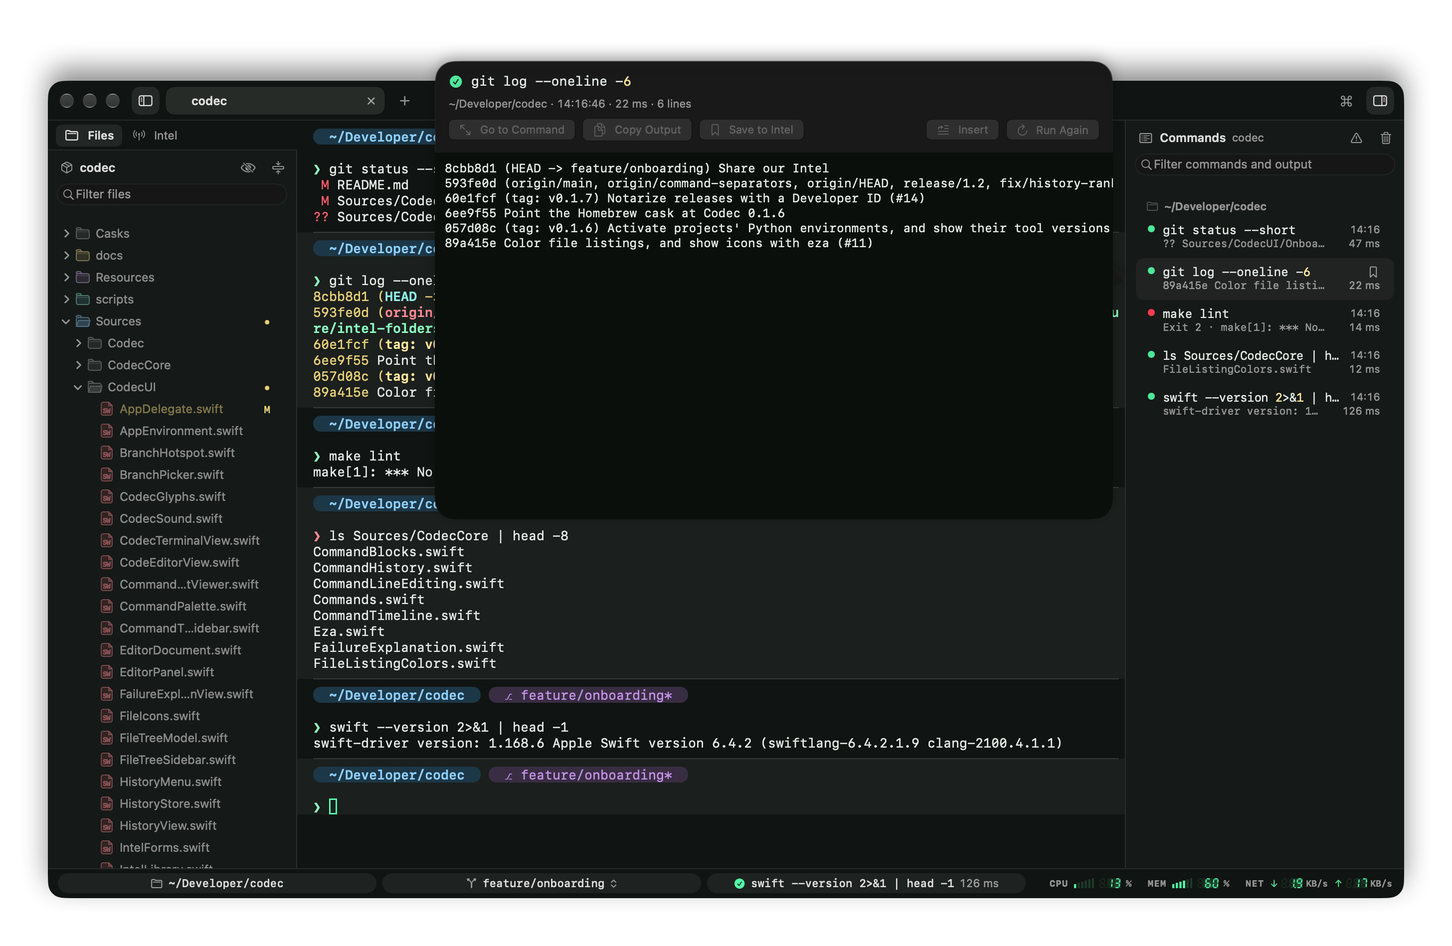
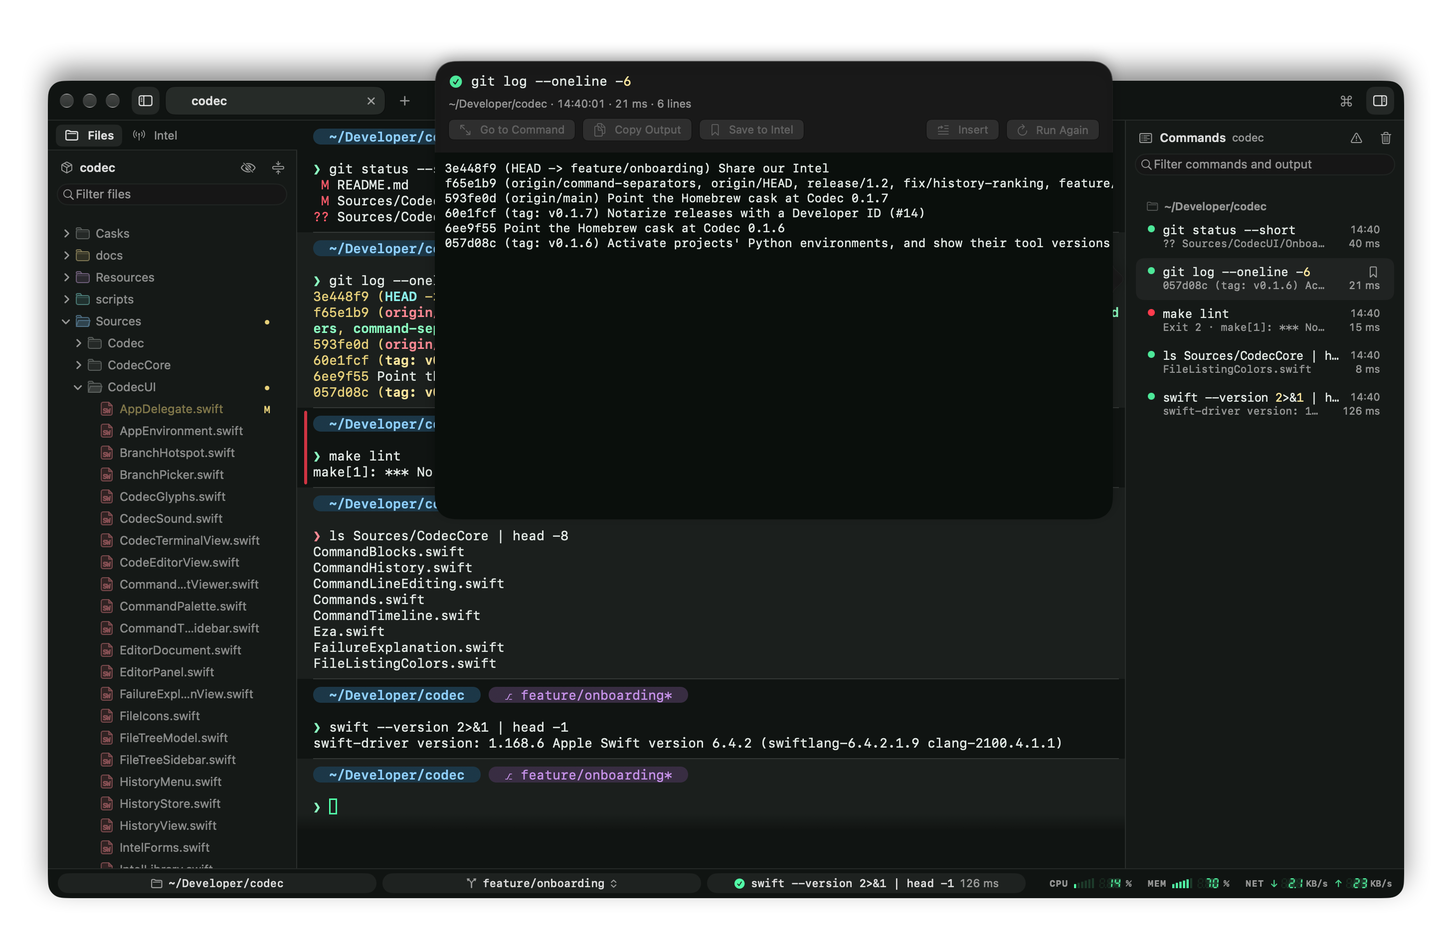
Mark failed commands in the margin, and let the newest one's shade fade out
A command that failed now has a bar beside it in the margin, in the theme's
alert color, from its prompt to the end of its output, so the failures are
what stands out when scrolling back. The command that's running has one in
the accent color, and commands that worked have nothing. The bar is where
the mark over a command gone back to is drawn, a little quieter, and comes
with the line between commands rather than a setting of its own.

The newest command isn't over, so its shade no longer ends in an edge under
the cursor: it fades out over a row below its last. That also hides the
steps the shade grew in while slow output came in.

The line is a little fainter so the bar leads, and after a resize hid them
the separators fade back in rather than pop.

Changed region(s): [[0.3125, 0.1554, 0.75, 0.2798], [0.2188, 0.3109, 0.3125, 0.4352], [0.8125, 0.2798, 0.9062, 0.3109]]

diff --git a/Sources/CodecUI/Pane.swift b/Sources/CodecUI/Pane.swift
@@ -994,25 +994,26 @@ final class Pane: LocalProcessTerminalViewDelegate {
     private var relocationToken = 0
 
     /// Draws what sets the commands on screen apart, as the settings say: a line above each one's
-    /// prompt, and a shade behind every other one, from its line to the next. The prompt waiting for a
-    /// command counts as one. Only with shell integration, which is what tells commands apart.
+    /// prompt, with a bar in the margin beside one that failed or is running, and a shade behind every
+    /// other one, from its line to the next. The prompt waiting for a command counts as one. Only with
+    /// shell integration, which is what tells commands apart.
     func refreshCommandSeparators() {
         let separators = view.commandSeparators
         let lines = preferences.commandSeparators, shading = preferences.shadeAlternateCommands
         guard lines || shading, session.integrated, !isShutDown, promptIsDrawn || !blocks.blocks.isEmpty,
               terminal.terminalInputStateSnapshot()?.isAlternateBuffer == false else {
-            return separators.update(shades: [], rules: [])
+            return separators.update()
         }
         // Finding the commands again takes the whole scrollback: once a resize is over, not at each step of it.
         if rowsMayHaveMoved, !blocks.blocks.isEmpty {
-            separators.update(shades: [], rules: [])
+            separators.update()
             return relocateBlocksSoon()
         }
         // One copy of the screen where `TerminalGrid` takes two: this runs at every frame of a scroll.
         let caret = terminal.firstRect(forCharacterRange: NSRange(location: 0, length: 0), actualRange: nil)
         guard let window = terminal.window, caret.height > 0,
               let snapshot = terminal.terminalContentSnapshot(region: .viewport),
-              let top = snapshot.rows.first?.absoluteRow else { return separators.update(shades: [], rules: []) }
+              let top = snapshot.rows.first?.absoluteRow else { return separators.update() }
         let shown = top..<(top + snapshot.rows.count)
         let cursorRow = snapshot.cursorRow
         func isBlank(_ row: Int) -> Bool { snapshot.rows[row - top].text.allSatisfy(\.isWhitespace) }
@@ -1049,20 +1050,42 @@ final class Pane: LocalProcessTerminalViewDelegate {
             let first = frame(ofRow: span.rows.lowerBound)
             return isBlank(span.rows.lowerBound) && span.rows.count > 1 ? first.midY : first.maxY
         }
-        var shades: [NSRect] = [], rules: [NSRect] = []
+        var shades: [CommandSeparatorView.Shade] = [], rules: [NSRect] = [], marks: [CommandSeparatorView.Mark] = []
         for (index, span) in spans.enumerated() {
             let top = tops[index]
+            // Where it ends: at the next one's line, past the screen's edge (so into the pane's padding),
+            // or, for the newest, under its last row.
+            let endsOnScreen = index + 1 == spans.count && span.rows.upperBound < shown.upperBound
+            let bottom = index + 1 < spans.count ? tops[index + 1]
+                : endsOnScreen ? frame(ofRow: span.rows.upperBound - 1).minY : bounds.minY
+            guard top > bottom else { continue }
             // Nothing is above the very first row to set a command apart from.
             if lines, shown.contains(span.rows.lowerBound), span.rows.lowerBound > 0 {
                 rules.append(NSRect(x: text.minX, y: top - 0.5, width: text.width, height: 1))
             }
+            if lines, let kind = markKind(of: span) {
+                // In the margin, where the mark over a command gone back to is, and short of the lines
+                // at either end unless the command goes on past the screen's edge.
+                let gap: CGFloat = top - bottom > 12 ? 3 : 0
+                let upper = top < bounds.maxY ? top - gap : top, lower = bottom > bounds.minY ? bottom + gap : bottom
+                marks.append(.init(frame: NSRect(x: max(text.minX - 9, 2), y: lower, width: 3, height: upper - lower), kind: kind))
+            }
             guard shading, span.isAlternate else { continue }
-            // Into the pane's padding when the command goes on past the screen's edge.
-            let bottom = index + 1 < spans.count ? tops[index + 1]
-                : span.rows.upperBound >= shown.upperBound ? bounds.minY : frame(ofRow: span.rows.upperBound - 1).minY
-            if top > bottom { shades.append(NSRect(x: bounds.minX, y: bottom, width: bounds.width, height: top - bottom)) }
+            // The newest one isn't over: instead of an edge, its shade fades out over a row below its last.
+            let fade = endsOnScreen && span.isNewest ? rowHeight : 0
+            shades.append(.init(frame: NSRect(x: bounds.minX, y: bottom - fade, width: bounds.width, height: top - bottom + fade),
+                                fade: fade))
         }
-        separators.update(shades: shades, rules: rules)
+        separators.update(shades: shades, rules: rules, marks: marks)
+    }
+
+    /// What the bar beside a command says, when there's something to say: it's running, or it failed.
+    /// Nothing for one that worked, nor for the prompt waiting for one.
+    private func markKind(of span: CommandBlocks.Span) -> CommandSeparatorView.Mark.Kind? {
+        guard let index = span.block, blocks.blocks.indices.contains(index) else { return nil }
+        let block = blocks.blocks[index]
+        guard let entry = timeline.entries.last(where: { $0.block == block }) else { return nil }
+        return entry.isRunning ? .running : entry.failed ? .failed : nil
     }
 
     /// Finds the commands again a moment after the last resize, then draws what sets them apart.

diff --git a/Sources/CodecUI/PaneView.swift b/Sources/CodecUI/PaneView.swift
@@ -113,8 +113,7 @@ final class PaneView: NSView {
     func apply(theme: CodecTheme, scanlines enabled: Bool) {
         finder.apply(theme: theme)
         fileLink.theme = theme
-        commandSeparators.ruleColor = theme.commandRule
-        commandSeparators.shadeColor = theme.commandShade
+        commandSeparators.theme = theme
         scanlines.isHidden = !enabled
         scanlines.lineColor = theme.isDark ? .black : NSColor(white: 0, alpha: 0.5)
         scanlines.needsDisplay = true
@@ -320,35 +319,73 @@ final class FileLinkView: NSView {
     }
 }
 
-/// Sets commands apart: a line above each one's prompt, and a shade behind every other one, prompt and
-/// output. It's under the terminal, whose own background is clear, so text over a shade keeps its
-/// contrast and anything the terminal fills in (a selection, a prompt chip) covers the line.
+/// Sets commands apart: a line above each one's prompt, a shade behind every other one, prompt and
+/// output, and a bar in the margin beside one that failed or is still running. It's under the
+/// terminal, whose own background is clear, so text over a shade keeps its contrast and anything the
+/// terminal fills in (a selection, a prompt chip) covers the line.
 final class CommandSeparatorView: NSView {
-    var ruleColor: NSColor = .separatorColor {
+    /// The bar beside a command there's something to say about. One that worked has none.
+    struct Mark: Equatable {
+        enum Kind: Equatable {
+            case running
+            case failed
+        }
+        var frame: NSRect
+        var kind: Kind
+    }
+
+    /// A shaded command's rows. The newest command isn't over, so its shade has no bottom edge: it
+    /// fades out over its last `fade` points.
+    struct Shade: Equatable {
+        var frame: NSRect
+        var fade: CGFloat = 0
+    }
+
+    var theme: CodecTheme = .codec {
         didSet { needsDisplay = true }
     }
-    var shadeColor: NSColor = .clear {
-        didSet { needsDisplay = true }
-    }
-    /// The shaded commands' rows, in this view's coordinates.
-    private(set) var shades: [NSRect] = []
+    /// All in this view's coordinates.
+    private(set) var shades: [Shade] = []
     /// The lines, a point thick.
     private(set) var rules: [NSRect] = []
+    private(set) var marks: [Mark] = []
 
     override func hitTest(_ point: NSPoint) -> NSView? { nil }
 
-    func update(shades: [NSRect], rules: [NSRect]) {
-        guard shades != self.shades || rules != self.rules else { return }
+    func update(shades: [Shade] = [], rules: [NSRect] = [], marks: [Mark] = []) {
+        guard shades != self.shades || rules != self.rules || marks != self.marks else { return }
+        let wasEmpty = self.shades.isEmpty && self.rules.isEmpty && self.marks.isEmpty
         self.shades = shades
         self.rules = rules
+        self.marks = marks
         needsDisplay = true
+        // Back after a resize hid them, they come in rather than pop.
+        guard wasEmpty, window != nil, !NSWorkspace.shared.accessibilityDisplayShouldReduceMotion else { return }
+        alphaValue = 0
+        NSAnimationContext.runAnimationGroup { context in
+            context.duration = 0.14
+            animator().alphaValue = 1
+        }
     }
 
     override func draw(_ dirtyRect: NSRect) {
-        shadeColor.setFill()
-        for shade in shades { backingAlignedRect(shade, options: .alignAllEdgesNearest).fill(using: .sourceOver) }
-        ruleColor.setFill()
+        let shade = theme.commandShade
+        for band in shades {
+            let frame = backingAlignedRect(band.frame, options: .alignAllEdgesNearest)
+            let fade = min(band.fade, frame.height)
+            shade.setFill()
+            NSRect(x: frame.minX, y: frame.minY + fade, width: frame.width, height: frame.height - fade).fill(using: .sourceOver)
+            guard fade > 0 else { continue }
+            NSGradient(starting: shade, ending: shade.withAlphaComponent(0))?
+                .draw(in: NSRect(x: frame.minX, y: frame.minY, width: frame.width, height: fade), angle: -90)
+        }
+        theme.commandRule.setFill()
         for rule in rules { backingAlignedRect(rule, options: .alignAllEdgesNearest).fill(using: .sourceOver) }
+        for mark in marks {
+            // Quieter than the mark over a command gone back to, which is drawn in the same place.
+            (mark.kind == .failed ? theme.alert : theme.accent).withAlphaComponent(0.8).setFill()
+            NSBezierPath(roundedRect: mark.frame, xRadius: 1.5, yRadius: 1.5).fill()
+        }
     }
 }
 

diff --git a/Tests/CodecUITests/CommandSeparatorTests.swift b/Tests/CodecUITests/CommandSeparatorTests.swift
@@ -58,13 +58,15 @@ struct CommandSeparatorTests {
         #expect(separators.rules.allSatisfy { $0.height == 1 && $0.width == pane.terminal.frame.width })
         // The second command, from its line to the next, as wide as the pane.
         let shade = try #require(separators.shades.first)
-        #expect(shade.maxY == second.maxY && shade.minY == waiting.maxY)
-        #expect(shade.width == pane.view.bounds.width)
+        #expect(shade.frame.maxY == second.maxY && shade.frame.minY == waiting.maxY && shade.fade == 0)
+        #expect(shade.frame.width == pane.view.bounds.width)
+        // Both worked: nothing in the margin.
+        #expect(separators.marks.isEmpty)
 
         // Each has its setting.
         env.preferences.commandSeparators = false
         pane.applyPreferences()
-        #expect(separators.rules.isEmpty && separators.shades.count == 1)
+        #expect(separators.rules.isEmpty && separators.marks.isEmpty && separators.shades.count == 1)
         env.preferences.shadeAlternateCommands = false
         pane.applyPreferences()
         #expect(separators.rules.isEmpty && separators.shades.isEmpty)
@@ -97,9 +99,36 @@ struct CommandSeparatorTests {
         #expect(await waitUntil { separators.rules.count == 1 })
         let blank = try frame(ofRow: 3, in: pane)
         #expect(separators.rules.first?.midY == blank.midY)
-        // The waiting prompt is the second command: shaded from its line down to its last row.
-        #expect(separators.shades.first?.maxY == blank.midY)
-        #expect(separators.shades.first?.minY == (try frame(ofRow: 4, in: pane)).minY)
+        // The waiting prompt is the second command: shaded from its line, and fading out under its
+        // last row, since it's not over.
+        let last = try frame(ofRow: 4, in: pane)
+        #expect(separators.shades == [.init(frame: NSRect(x: 0, y: last.minY - last.height, width: pane.view.bounds.width,
+                                                          height: blank.midY - last.minY + last.height), fade: last.height)])
+    }
+
+    /// A bar in the margin beside a command that failed, and beside the one running; nothing beside one
+    /// that worked.
+    @Test func marksCommandsThatFailedOrAreRunning() async throws {
+        let env = try TestEnvironment(shell: "/bin/zsh", integration: true)
+        defer { env.tearDown() }
+        let (pane, window) = try makeZshPane(env)
+        defer {
+            pane.shutDown()
+            window.close()
+        }
+        let separators = pane.view.commandSeparators
+        #expect(await waitUntil { pane.isAtCommandLine })
+        #expect(await run("false", in: pane))
+        #expect(await waitUntil { separators.marks.map(\.kind) == [.failed] })
+        // Beside its one row, between the pane's edge and the text.
+        let failed = try #require(separators.marks.first?.frame), row = try frame(ofRow: 0, in: pane)
+        #expect(failed.minX > 0 && failed.maxX < pane.terminal.frame.minX)
+        #expect(failed.minY >= row.minY && failed.maxY <= row.maxY && failed.height == row.height - 6)
+        pane.terminal.send(txt: "sleep 1\r")
+        #expect(await waitUntil { separators.marks.map(\.kind) == [.failed, .running] })
+        // It's the second command, and the newest: shaded, with no bottom edge yet.
+        #expect(separators.shades.count == 1 && (separators.shades.first?.fade ?? 0) > 0)
+        #expect(await waitUntil { separators.marks.map(\.kind) == [.failed] && separators.shades.map(\.fade) == [0] })
     }
 
     /// `clear` leaves the commands that were on screen nowhere: nothing is drawn where they were.
@@ -128,7 +157,7 @@ struct CommandSeparatorTests {
         // Counting starts over: the first command after the clear isn't shaded, the prompt after it is.
         #expect(await run("echo three", in: pane))
         #expect(await waitUntil { separators.rules.count == 2 && separators.shades.count == 1 })
-        #expect(separators.shades.first?.maxY == (try frame(ofRow: 7, in: pane)).maxY)
+        #expect(separators.shades.first?.frame.maxY == (try frame(ofRow: 7, in: pane)).maxY)
     }
 
     /// A full-screen program's screen isn't the commands': nothing is drawn over it, and all of it is

diff --git a/Tests/CodecCoreTests/CommandBlocksTests.swift b/Tests/CodecCoreTests/CommandBlocksTests.swift
@@ -143,12 +143,12 @@ struct CommandBlocksTests {
         for prompt in [0, 4, 9] { blocks.record(.init(prompt: prompt, output: prompt + 1)) }
         // At a prompt of two rows.
         #expect(blocks.spans(overlapping: 0..<20, end: 12, waitingPrompt: 12..<14) == [
-            .init(rows: 0..<4, isAlternate: false), .init(rows: 4..<9, isAlternate: true),
-            .init(rows: 9..<12, isAlternate: false), .init(rows: 12..<14, isAlternate: true),
+            .init(rows: 0..<4, isAlternate: false, block: 0), .init(rows: 4..<9, isAlternate: true, block: 1),
+            .init(rows: 9..<12, isAlternate: false, block: 2), .init(rows: 12..<14, isAlternate: true, isNewest: true),
         ])
         // While the newest one runs, scrolled so that the first is out of view.
         #expect(blocks.spans(overlapping: 5..<25, end: 30) == [
-            .init(rows: 4..<9, isAlternate: true), .init(rows: 9..<30, isAlternate: false),
+            .init(rows: 4..<9, isAlternate: true, block: 1), .init(rows: 9..<30, isAlternate: false, block: 2, isNewest: true),
         ])
         #expect(blocks.spans(overlapping: 40..<60, end: 30).isEmpty)
     }
@@ -157,9 +157,10 @@ struct CommandBlocksTests {
     @Test func spansLeaveOutCommandsPastTheEnd() {
         var blocks = CommandBlocks()
         for prompt in [0, 4, 9] { blocks.record(.init(prompt: prompt, output: prompt + 1)) }
-        #expect(blocks.spans(overlapping: 0..<20, end: 0, waitingPrompt: 0..<1) == [.init(rows: 0..<1, isAlternate: false)])
+        #expect(blocks.spans(overlapping: 0..<20, end: 0, waitingPrompt: 0..<1)
+                == [.init(rows: 0..<1, isAlternate: false, isNewest: true)])
         #expect(blocks.spans(overlapping: 0..<20, end: 6) == [
-            .init(rows: 0..<4, isAlternate: false), .init(rows: 4..<6, isAlternate: true),
+            .init(rows: 0..<4, isAlternate: false, block: 0), .init(rows: 4..<6, isAlternate: true, block: 1, isNewest: true),
         ])
     }
 
@@ -167,11 +168,11 @@ struct CommandBlocksTests {
         var blocks = CommandBlocks(limit: 2)
         for prompt in [0, 5, 10] { blocks.record(.init(prompt: prompt, output: prompt + 1)) }
         #expect(blocks.spans(overlapping: 0..<20, end: 15) == [
-            .init(rows: 5..<10, isAlternate: true), .init(rows: 10..<15, isAlternate: false),
+            .init(rows: 5..<10, isAlternate: true, block: 0), .init(rows: 10..<15, isAlternate: false, block: 1, isNewest: true),
         ])
         // Found again after a rewrap, the older of the two gone from the scrollback.
         blocks.replace(with: [.init(prompt: 12, output: 13)], dropped: 1)
-        #expect(blocks.spans(overlapping: 0..<20, end: 15) == [.init(rows: 12..<15, isAlternate: false)])
+        #expect(blocks.spans(overlapping: 0..<20, end: 15) == [.init(rows: 12..<15, isAlternate: false, block: 0, isNewest: true)])
     }
 
     @Test func forgetsCommandsTheScreenWasClearedUnder() {

diff --git a/Sources/CodecCore/CommandBlocks.swift b/Sources/CodecCore/CommandBlocks.swift
@@ -41,10 +41,16 @@ public struct CommandBlocks: Equatable, Sendable {
         public var rows: Range<Int>
         /// Every other command, counted from the first one run: the ones that get a shade.
         public var isAlternate: Bool
+        /// Where its block is in `blocks`. Nil for the prompt waiting for a command.
+        public var block: Int?
+        /// The last one: it ends only where it has got to so far.
+        public var isNewest: Bool
 
-        public init(rows: Range<Int>, isAlternate: Bool) {
+        public init(rows: Range<Int>, isAlternate: Bool, block: Int? = nil, isNewest: Bool = false) {
             self.rows = rows
             self.isAlternate = isAlternate
+            self.block = block
+            self.isNewest = isNewest
         }
     }
 
@@ -131,11 +137,12 @@ public struct CommandBlocks: Equatable, Sendable {
         for (index, block) in live.enumerated() {
             let upper = index + 1 < live.count ? live[index + 1].prompt : end
             guard block.prompt < upper else { continue }
-            spans.append(Span(rows: block.prompt..<upper, isAlternate: (firstNumber + index) % 2 == 1))
+            spans.append(Span(rows: block.prompt..<upper, isAlternate: (firstNumber + index) % 2 == 1, block: index))
         }
         if let waitingPrompt, !waitingPrompt.isEmpty {
             spans.append(Span(rows: waitingPrompt, isAlternate: (firstNumber + live.count) % 2 == 1))
         }
+        if !spans.isEmpty { spans[spans.count - 1].isNewest = true }
         return spans.filter { $0.rows.overlaps(shown) }
     }
 

diff --git a/Sources/CodecCore/Preferences.swift b/Sources/CodecCore/Preferences.swift
@@ -21,7 +21,8 @@ public final class Preferences: ObservableObject {
     @Published public var blur: Bool { didSet { store(blur, .blur) } }
     @Published public var scanlines: Bool { didSet { store(scanlines, .scanlines) } }
     @Published public var dimInactivePanes: Bool { didSet { store(dimInactivePanes, .dimInactivePanes) } }
-    /// Draws a line above each command's prompt, between it and what the command before printed (zsh).
+    /// Draws a line above each command's prompt, between it and what the command before printed, and
+    /// a bar in the margin beside a command that failed or is running (zsh).
     @Published public var commandSeparators: Bool { didSet { store(commandSeparators, .commandSeparators) } }
     /// Shades every other command, prompt and output, like the rows of a table (zsh).
     @Published public var shadeAlternateCommands: Bool { didSet { store(shadeAlternateCommands, .shadeAlternateCommands) } }

diff --git a/Sources/CodecUI/SettingsView.swift b/Sources/CodecUI/SettingsView.swift
@@ -115,7 +115,7 @@ private struct AppearanceSettings: View {
 
             Section("Commands") {
                 Toggle("Line between commands", isOn: $prefs.commandSeparators)
-                    .help("Draws a line above each command's prompt in the terminal. Needs shell integration (zsh).")
+                    .help("Draws a line above each command's prompt in the terminal, and a bar in the margin beside a command that failed or is running. Needs shell integration (zsh).")
                 Toggle("Shade every other command", isOn: $prefs.shadeAlternateCommands)
                     .help("Gives every other command, with its output, a slightly different background. Needs shell integration (zsh).")
             }

diff --git a/Sources/CodecUI/Theme.swift b/Sources/CodecUI/Theme.swift
@@ -22,7 +22,7 @@ struct CodecTheme: Identifiable, Equatable {
     /// Hairlines between panes and around the bars.
     var divider: NSColor { foreground.withAlphaComponent(isDark ? 0.1 : 0.14) }
     /// The line above each command's prompt in the terminal.
-    var commandRule: NSColor { foreground.withAlphaComponent(isDark ? 0.16 : 0.2) }
+    var commandRule: NSColor { foreground.withAlphaComponent(isDark ? 0.14 : 0.18) }
     /// What every other command in the terminal is shaded with.
     var commandShade: NSColor { foreground.withAlphaComponent(isDark ? 0.05 : 0.055) }
     var terminalPalette: [SwiftTerm.Color] { ansi.map(\.terminalColor) }

diff --git a/docs/command-line.md b/docs/command-line.md
@@ -33,7 +33,11 @@ Copy on select is a setting (Settings › Shell › Selection). The scrollback k
 
 ## Telling commands apart (zsh)
 
-A thin line runs above each command's prompt, and every other command sits on a slightly different shade, its prompt and its output together, so a long scrollback reads as one command after another. The prompt you're at counts as the next one. Both follow the theme, stay behind the text, and each has its switch in Settings › Appearance › Commands.
+A thin line runs above each command's prompt, and every other command sits on a slightly different shade, its prompt and its output together, so a long scrollback reads as one command after another. The prompt you're at counts as the next one; the newest command isn't over, so its shade fades out below it rather than ending in an edge.
+
+A command that failed has a bar beside it in the margin, in the theme's alert color, from its prompt to the end of its output: scrolling back, the failures are the ones that stand out. The command that's running has one in the accent color. Commands that worked have nothing.
+
+All of it follows the theme and stays behind the text. The lines, with the bars, and the shades each have their switch in Settings › Appearance › Commands.
 
 They're hidden while a full-screen program has the screen, and come back a moment after a resize, once Codec has found where the lines went.
 

diff --git a/docs/settings.md b/docs/settings.md
@@ -9,7 +9,7 @@ Open Settings with ⌘,. Changes apply as you make them, unless a setting says i
 - **Theme**: Codec (green on black, after the codec screen), Arctic, Amber and Daylight. Also in the command palette.
 - **Text**: the font (SF Mono by default, or any monospaced font you have) and its size, 9 to 24 points. ⌘+ / ⌘− / ⌘0 change the size from anywhere.
 - **Window**: blur behind the window, its opacity, dimming inactive split panes, CRT scanlines, and whether Codec [reopens your windows and tabs](tabs-and-panes.md#picking-up-where-you-left-off) at launch, with what each pane showed and its commands.
-- **Commands**: a line between commands in the terminal, and a shade behind every other one, each on by default. See [The command line › Telling commands apart](command-line.md#telling-commands-apart-zsh).
+- **Commands**: a line between commands in the terminal, with a bar beside the ones that failed, and a shade behind every other one, each on by default. See [The command line › Telling commands apart](command-line.md#telling-commands-apart-zsh).
 - **Status bar**: show or hide the CPU, memory and network meters.
 
 ## Shell
